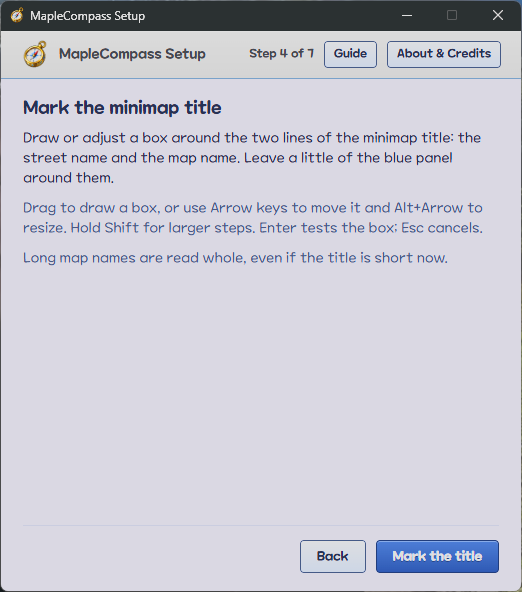
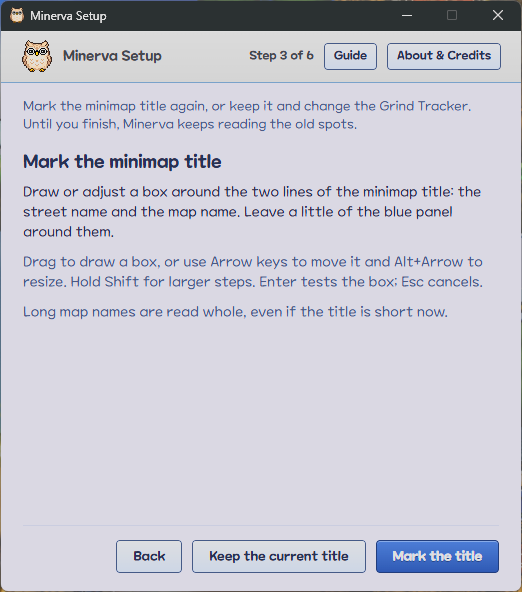
The site's shots of Setup and the Item Card, retaken on Minerva
Setup's shot is its title-marking step reopened from Help & Setup, its bar
showing the 32px owl. The Item Card's shows Market Lines (Your price and Lowest
ask) under the scroll's picture and name, with the inventory around it, so it
is 659x546 now. Their alt texts say so, and both leave the Retake list.

diff --git a/site/index.html b/site/index.html
@@ -206,7 +206,7 @@
             <figure class="shot">
               <img
                 src="./screenshots/setup.png"
-                alt="Setup on first run, at its step for marking the minimap title: draw or adjust a box around its two lines, with Back and Mark the title."
+                alt="Setup reopened from Help & Setup, at its step for marking the minimap title again: draw or adjust a box around its two lines, with Back, Keep the current title and Mark the title."
                 loading="lazy"
                 decoding="async"
               />
@@ -825,7 +825,7 @@
             <figure class="shot">
               <img
                 src="./screenshots/item-card.png"
-                alt="Garnet's Item Card over the inventory, with the game's tooltip for Garnet under it. The card says Shop pays 200 mesos, and Market 1,000 mesos, with buttons to change the price and to open MesoWatch."
+                alt="The Item Card for Claw Attack Scroll: Intermediate over the inventory, with the game's tooltip for the scroll under it. The card heads with the scroll's picture beside its name and says Shop pays Not known; under Market, with its buttons to add a line and to open MesoWatch, two lines: Your price 200,000 mesos and Lowest ask 150,000 mesos."
                 loading="lazy"
                 decoding="async"
               />

diff --git a/site/screenshots/README.md b/site/screenshots/README.md
@@ -19,14 +19,12 @@ The pictures on the Minerva site, taken by hand in the game. The site's build fa
 | `map.png` | The Map section on a map with a Hidden Portal: the Map Preview with its rings, the pointer resting on the dashed ring with its card showing, and the Hidden Portal's row, each with its destination's Map Mark. | 332×247, the panel's Map section | 0.8.0 |
 | `navigation.png` | The Map section with the next portal's magenta ring, and Navigation with a Hunting Target: the mob, the figures, and the route from the map you're on, each map with its Map Mark. | 317×475, the panel's Map and Navigation sections | 0.8.0 |
 | `grind-tracker.png` | The Grind Tracker: Time to Level, the rates, a Best row and the EXP gauge at its foot. | 280×159, the Grind Tracker's window | 0.7.0 |
-| `item-card.png` | An Item Card at the pointer over the inventory, on an item with a shop price and a market price you set (Garnet), with its window bar and the game's tooltip under it. | 488×386, the card and the tooltip | 0.8.0 |
+| `item-card.png` | An Item Card at the pointer over the inventory, on an item with two Market Lines (Claw Attack Scroll: Intermediate): its window bar, the item's picture beside its name, Shop pays, and Your price and Lowest ask under Market, with the game's tooltip under it. | 659×546, the inventory, the card and the tooltip | 0.9.0 |
 | `item-lookup.png` | An item's tooltip in the inventory, and the Item Lookup alert above it saying the page it opened. | 611×742, the inventory, the tooltip and the alert | 0.7.0 |
-| `setup.png` | Setup's step for marking the minimap title, on first run. | 522×592, the setup window | 0.8.0 |
+| `setup.png` | Setup's step for marking the minimap title, reopened from Help & Setup (step 3 of 6), with Keep the current title. | 522×592, the setup window | 0.9.0 |
 
 ## Retake
 
 When a change alters something a shot shows, the PR that makes it lists the shot here, with what changed. At release, the smoke test retakes every shot listed (`docs/releasing.md`) and empties the list.
 
-- `item-card.png`: the card's market section is now Market Lines: a "Market" heading with its + and MesoWatch buttons, then a row per line. Retake it with two or three lines, some with a price (for example "Your price" and "Lowest ask"), and update its alt text to say so. The card also heads with the item's picture now, beside its name: the alt text says so too. Its window bar shows the owl now, not the compass.
 - `game-window.png` and `hero.png`: the app is Minerva now. The panel's window bar shows the owl and "Minerva" where it showed the compass and "MapleCompass". Retake the game window and cut the hero from it again, keeping the same map with the minimap's title and the panel's where they are, so `site/reel.ts` needs no change.
-- `setup.png`: the window's title and heading say "Minerva Setup", and its bar shows the 32px owl where it showed the 28px compass.
